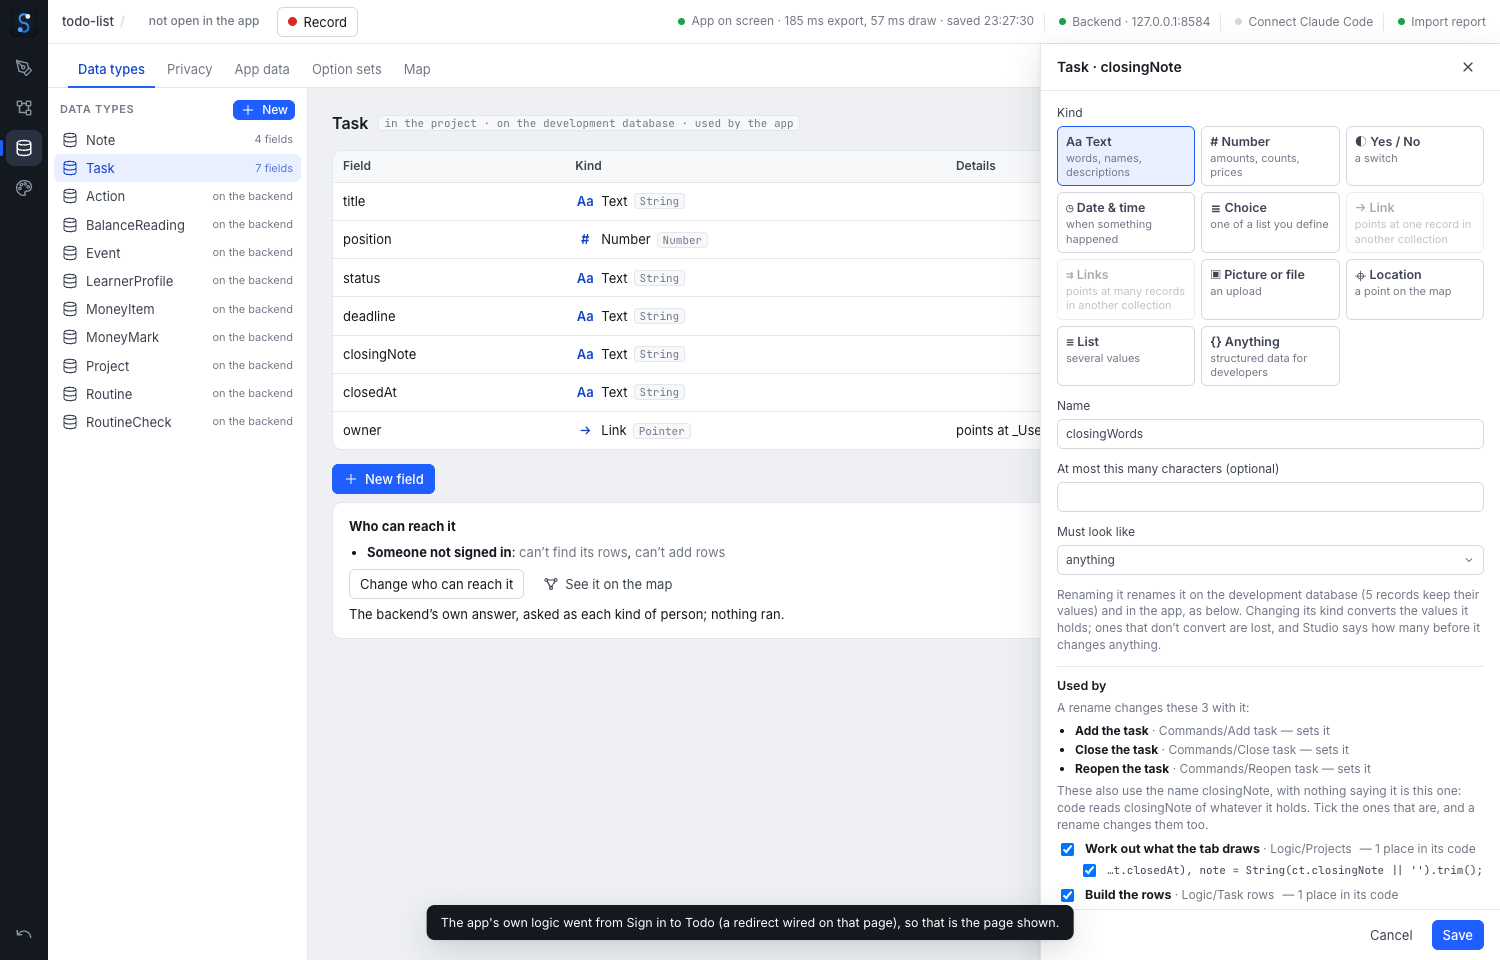
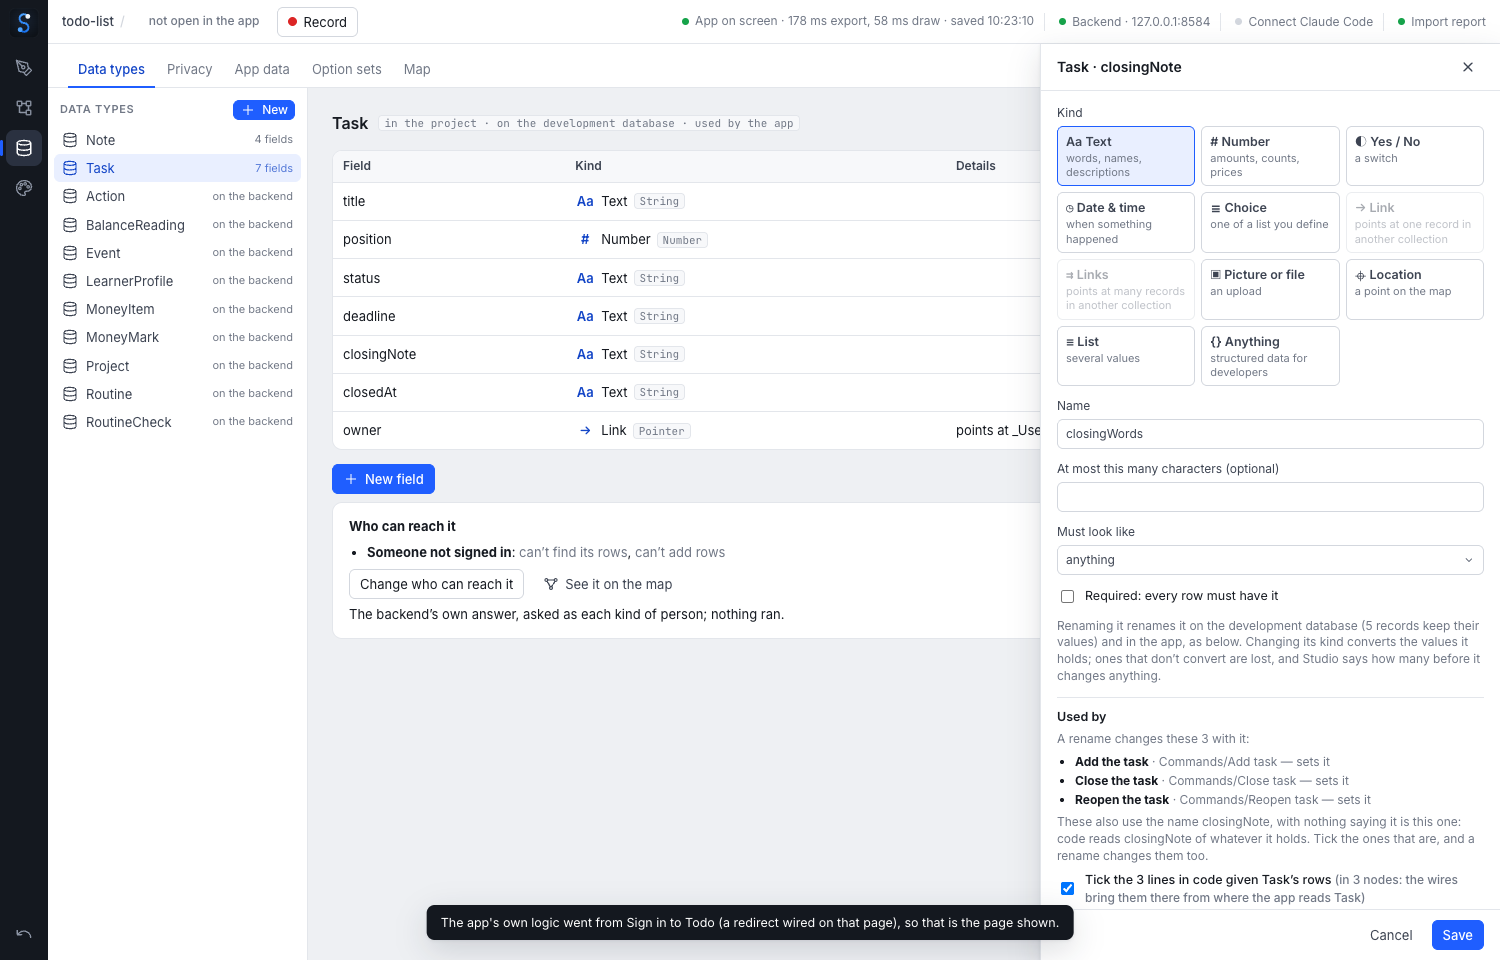
STU-062: one tick for the lines in code given a type's rows; rulings R4–R6, R10 recorded; R5 read
Richard, 2026-10-23: one tick for the likely maybes. givenRows (rename.mjs) follows the wires from every node on
the type, through components' inputs and outputs, to the code they reach; the drawer offers "Tick the N lines in
code given T's rows" and lists those nodes first. On the todo app: RoutineCheck.date 206 maybes -> 2 given,
Task.closingNote 3 -> 3, Task.title 33 -> 21, Routine.time 75 -> 60.

SCOPE: R4 leaning, R5 / R6 / R10 taken, and R5's read: a Variable is one value for the whole app, so a state
inside a reusable is shared by every copy today; NodeGX's per-copy record is the Component Object.

Gates 2026-10-23: check:data 80/80, check:editor 172/172, check:app 46/46, check:timeline 43/43.

Changed region(s): [[0.7053, 0.5938, 0.9813, 0.9375], [0.46, 0.0, 0.6747, 0.0312]]

diff --git a/editor/studio.html b/editor/studio.html
@@ -570,6 +570,8 @@
   .readers h4 { margin: 0; font-size: 12.5px; font-weight: 600; }
   .readers ul { margin: 0; padding-left: 18px; font-size: 12px; display: grid; gap: 2px; }
   .readers .maybe { display: grid; gap: 2px; font-size: 12px; }
+  .readers label.given { font-size: 12px; font-weight: 500; align-items: flex-start; }
+  .readers label.given input { margin-top: 2px; }
   .readers label.line { padding-left: 22px; min-width: 0; }
   .readers label.line code { font-size: 11px; color: var(--ink-2); overflow: hidden; text-overflow: ellipsis; white-space: nowrap; min-width: 0; }
   .kinds { display: grid; grid-template-columns: repeat(3, 1fr); gap: 6px; }
@@ -3748,7 +3750,7 @@ function draftOf(col, checks) {
  * STU-062: what in the app names a field or a type (rename.mjs), as a drawer section. The sure ones follow a rename; the
  * maybe ones (code, an object of no known type) are listed by node with each line, and follow only when ticked into `picked`.
  */
-function readersSection(readers, picked, name) {
+function readersSection(readers, picked, name, of = null) {
   const box = h('div', { class: 'readers', 'data-readers': readers.length });
   const where = (r) => h('span', {}, h('b', {}, r.label), h('span', { class: 'note' }, ` · ${r.key}`));
   box.append(h('h4', {}, 'Used by'));
@@ -3758,11 +3760,22 @@ function readersSection(readers, picked, name) {
   if (!maybe.length) return box;
   box.append(h('div', { class: 'note' }, `${sure.length ? 'These' : 'This app'} also use${sure.length ? '' : 's'} the name ${name}, with nothing saying it is this one: code reads ${name} of whatever it holds. Tick the ones that are, and a rename changes them too.`));
   const byNode = new Map();
-  for (const r of maybe) byNode.set(`${r.key}|${r.node}`, [...(byNode.get(`${r.key}|${r.node}`) || []), r]);
+  // code given the type's rows along the wires first (rename.mjs `given`): where this type's own reads are
+  for (const r of [...maybe].sort((a, b) => Number(!!b.given) - Number(!!a.given))) byNode.set(`${r.key}|${r.node}`, [...(byNode.get(`${r.key}|${r.node}`) || []), r]);
+  const shown = []; // each node's boxes, redrawn from `picked` after a tick elsewhere
+  const redraw = () => { for (const f of shown) f(); if (givenBox) givenBox.checked = given.every((r) => picked.has(r.id)); };
+  const given = maybe.filter((r) => r.given);
+  let givenBox = null;
+  if (given.length) {
+    const nodes = new Set(given.map((r) => `${r.key}|${r.node}`)).size;
+    givenBox = h('input', { type: 'checkbox', 'data-pick-given': of, checked: given.every((r) => picked.has(r.id)), onchange: (e) => { for (const r of given) { if (e.target.checked) picked.add(r.id); else picked.delete(r.id); } redraw(); } });
+    box.append(h('label', { class: 'c given' }, givenBox, h('span', {}, `Tick the ${given.length} line${given.length === 1 ? '' : 's'} in code given ${of}’s rows`, h('span', { class: 'note' }, ` (in ${nodes} node${nodes === 1 ? '' : 's'}: the wires bring them there from where the app reads ${of})`))));
+  }
   for (const list of byNode.values()) {
-    const ticks = list.map((r) => h('input', { type: 'checkbox', 'data-pick': r.id, checked: picked.has(r.id), onchange: (e) => { if (e.target.checked) picked.add(r.id); else picked.delete(r.id); all.checked = list.every((x) => picked.has(x.id)); } }));
-    const all = h('input', { type: 'checkbox', 'data-pick-node': `${list[0].key}|${list[0].node}`, checked: list.every((x) => picked.has(x.id)), onchange: (e) => { for (const [i, r] of list.entries()) { if (e.target.checked) picked.add(r.id); else picked.delete(r.id); ticks[i].checked = e.target.checked; } } });
-    box.append(h('div', { class: 'maybe' }, h('label', { class: 'c' }, all, where(list[0]), h('span', { class: 'note' }, ` — ${list[0].kind === 'code' ? `${list.length} place${list.length === 1 ? '' : 's'} in its code` : list[0].what}`)),
+    const ticks = list.map((r) => h('input', { type: 'checkbox', 'data-pick': r.id, checked: picked.has(r.id), onchange: (e) => { if (e.target.checked) picked.add(r.id); else picked.delete(r.id); redraw(); } }));
+    const all = h('input', { type: 'checkbox', 'data-pick-node': `${list[0].key}|${list[0].node}`, checked: list.every((x) => picked.has(x.id)), onchange: (e) => { for (const r of list) { if (e.target.checked) picked.add(r.id); else picked.delete(r.id); } redraw(); } });
+    shown.push(() => { ticks.forEach((t, i) => (t.checked = picked.has(list[i].id))); all.checked = list.every((x) => picked.has(x.id)); });
+    box.append(h('div', { class: 'maybe', 'data-given': list[0].given ? '' : undefined }, h('label', { class: 'c' }, all, where(list[0]), h('span', { class: 'note' }, ` — ${list[0].kind === 'code' ? `${list.length} place${list.length === 1 ? '' : 's'} in its code` : list[0].what}${list[0].given ? `, given ${of}’s rows` : ''}`)),
       ...list.filter((r) => r.line).map((r) => h('label', { class: 'c line', title: r.line }, ticks[list.indexOf(r)], h('code', {}, r.line)))));
   }
   return box;
@@ -3811,7 +3824,7 @@ async function fieldDrawer(t, col) {
         body.append(h('label', { class: 'c' }, h('input', { type: 'checkbox', checked: d.required, 'data-input': 'required', onchange: async (e) => { d.required = e.target.checked; if (d.required && !col.required && t.onBackend) empty = await emptyCount(t.name, col.name); draw(); } }), 'Required: every row must have it'));
         if (d.required && !col.required && empty) body.append(h('div', { class: 'note', 'data-empty': empty }, `${F.recordsWord(empty)} on the development database ${empty === 1 ? 'has' : 'have'} nothing in ${col.name}. Give each one a value first, or keep it optional.`, ' ', h('button', { class: 'quiet tiny', 'data-act': 'show-empty', onclick: showEmpty }, 'Show them in App data')));
       }
-      body.append(h('div', { class: 'note' }, `Renaming it renames it on the development database${records ? ` (${F.recordsWord(records)} keep their values)` : ''} and in the app, as below. Changing its kind converts the values it holds; ones that don’t convert are lost, and Studio says how many before it changes anything.`), readersSection(readers, picked, col.name));
+      body.append(h('div', { class: 'note' }, `Renaming it renames it on the development database${records ? ` (${F.recordsWord(records)} keep their values)` : ''} and in the app, as below. Changing its kind converts the values it holds; ones that don’t convert are lost, and Studio says how many before it changes anything.`), readersSection(readers, picked, col.name, t.name));
     }
     check();
   };

diff --git a/docs/SCOPE.md b/docs/SCOPE.md
@@ -59,8 +59,8 @@ Studio, opens or imports an app, changes it, and publishes it.** What that needs
 | 5 | **main pushed** | done 2026-10-23 (Richard's yes; origin/main fb31c9f) |
 | 6 | **STU-065 a development and a live database** (M6), and the Data tab it sits in (STU-060, 061, 063, 064). Richard, 2026-10-22: *"Alpha please"* | done (s15) |
 
-Not in the alpha: STU-041–043 (the converter's one home, the fidelity gate, plugins), the timeline's gaps, rulings
-R4–R6, and R10 beyond a folder on this machine.
+Not in the alpha: STU-041–043 (the converter's one home, the fidelity gate, plugins), the timeline's gaps, R4's
+rejoin, R5's states in reusables, and R10's SSH publish (ruled 2026-10-23; NodeGX's to build first).
 
 [history/](history/) is how it started (NodeGX phase 123, working title "Open Bubble"): the brief, the look, the
 first play test and every ruling taken.
@@ -1393,7 +1393,16 @@ page's table. `check:editor` 170/170, `check:app` 45/45, `check:publish` **31/31
   drawer's **Used by** lists both, the maybes by node with each line, and a maybe follows only when ticked.
 - **Why the maybes matter, measured on the todo template:** it reads every field in JavaScript (`r.title`), so for
   `RoutineCheck.date` there are 2 sure readers and 206 maybes, most of them a money item's `date`. Only a person can say
-  which `row.date` is this type's. For `Task.closingNote`: the three commands that set it (sure) and three pieces of
+  which `row.date` is this type's. **Ruled (Richard, 2026-10-23): one tick for the likely ones.** Asked whether
+  Studio should offer "tick every line in nodes that also name this type", his answer was yes. Measured first, that
+  test catches nothing on the todo app: none of the 11 nodes holding `RoutineCheck.date`'s 206 maybes names the type
+  in its code. What does catch them is where the rows go: `givenRows` (rename.mjs) follows the wires from every node on
+  the type (a query's items, a record), through components' outputs and into copies' inputs, to the code they reach.
+  The drawer offers *Tick the N lines in code given T's rows* and lists those nodes first, marked. On the todo app:
+  `RoutineCheck.date` 206 maybes → 2 given (Build Today and Read the selected thing that repeats, the two Functions
+  the page feeds `checks`), `Task.closingNote` 3 → all 3 (the three s16 found by reading), `Task.title` 33 → 21,
+  `Routine.time` 75 → 60. Still maybes: a node given several types' rows can read `.time` of another one, so it is a
+  tick the person sees, never automatic. For `Task.closingNote`: the three commands that set it (sure) and three pieces of
   code that read it (maybes); with those ticked, the app keeps working: `validate_project` 0 errors before and after,
   the list still shows, and a task added in the app after the rename is written with `closingWords` (the old column
   does not come back). Not measured: whether `validate_project` would flag a `prop-` port the type no longer has.
@@ -1463,10 +1472,28 @@ Required either way).
 
 | id | question | from |
 |---|---|---|
-| R4 | After a branch, can both sides rejoin into one next step? | phase 123 |
-| R5 | Can a custom state live inside a reusable? | phase 123 |
-| R6 | Where do option sets live — one component each, or one file? | phase 123 |
-| R10 | Where can a published app go besides a folder (GitHub Pages, Netlify, the person's own server), and where does its backend live when it is not this machine? STU-008 publishes to a folder against the bound backend until this is ruled. **Leaning (Richard, 2026-10-20):** *"Dunno yet, something like a Linux VM with SSH would be an obvious start no?"* What NodeGX has for that, read the same day: the Docker Compose self-host (`packages/nodegx-backend/deploy/`, `docs/runtime/SELF-HOSTING.md`; run on the box itself, no SSH step; P112-OWN024-DEPLOYNOSHARP open on its image), the training template's SSH runbook (`templates/digital-bricks-training/hosting/`, live on nexus-1, hardcoded to that box), and the general SSH deploy specced as phase 89 *A box of your own* (BOX-002–006, from DEP-004–006), not started. A deployed site's backend address is built into it at export (SELF-HOSTING.md), so the site and its API on one origin is the usual shape. By principle 5 the SSH deploy is NodeGX's to build (phase 89), and Studio's Publish then offers it as a second target. | STU-008, 2026-10-20 |
+| R4 | After a branch, can both sides rejoin into one next step? **Leaning (Richard, 2026-10-23):** *"Rejoining would be great, like n8n style, but hard to manage maybe?"* Wanted; what it costs in the graph and on the card is to be worked out (STU-025) and brought back before it is built. | phase 123 |
+
+**Taken.** R5 (Richard, 2026-10-23): *"Yep for custom states in reusables."* A custom state can live inside a reusable,
+each shown copy with its own value. What Studio does today there is to be read before building (custom states are
+Variable nodes that remember their element, `metadata.customState`, in whichever component they sit in).
+**Read (s19):** a Variable is one value for the whole app (`setvariablenode.ts`: the `--ndl--global-variables`
+record), so a state made today on an element inside a reusable is shared by every copy: set it in one, every copy
+shows it. The importer does the same for a Bubble reusable's states (`convertReusable`), and its elements' show / hide
+(`<label>.mounted`) and display data (`<label>.data`) are global Variables by name too. NodeGX's per-copy record is
+the **Component Object** (`net.noodl.ComponentObject`, `componentState<instance id>`), written by *Set Component Object
+Properties* (`properties`, `prop-<name>`, signal `store`) and read as `value-<name>`; both are in preview 0.2.3. One
+catch: a For Each's row component has the row's item as its Component Object, so a state there shares the item's
+field names.
+
+**Taken.** R6 (Richard, 2026-10-23): **one file per option set**, which is how they are built: each set is its own
+logic component under `Option sets/`, one Static Data node each.
+
+**Taken.** R10 (Richard, 2026-10-23): *"SSH publishing to a VM would be amazing for NodeGX, the npm package and the
+Studio."* A published app and its backend go to a Linux machine of the person's own over SSH. By principle 5 the deploy
+is NodeGX's to build (phase 89, *A box of your own*, BOX-002–006, not started), shipped in the npm package; Studio's
+Publish then offers it as a second target beside the folder. Until then STU-008 publishes to a folder. What was read
+before the ruling (2026-10-20): the Docker Compose self-host (`packages/nodegx-backend/deploy/`, `docs/runtime/SELF-HOSTING.md`; run on the box itself, no SSH step; P112-OWN024-DEPLOYNOSHARP open on its image), the training template's SSH runbook (`templates/digital-bricks-training/hosting/`, live on nexus-1, hardcoded to that box), and the general SSH deploy specced as phase 89 *A box of your own* (BOX-002–006, from DEP-004–006), not started. A deployed site's backend address is built into it at export (SELF-HOSTING.md), so the site and its API on one origin is the usual shape. By principle 5 the SSH deploy is NodeGX's to build (phase 89), and Studio's Publish then offers it as a second target.
 
 **Taken.** R7 (Richard, 2026-10-19): page data is an ordinary Query Records node at the page root, named by
 `metadata.pageData`. No new file, nothing new in the format: the NodeGX editor, the MCP server and the runtime read
